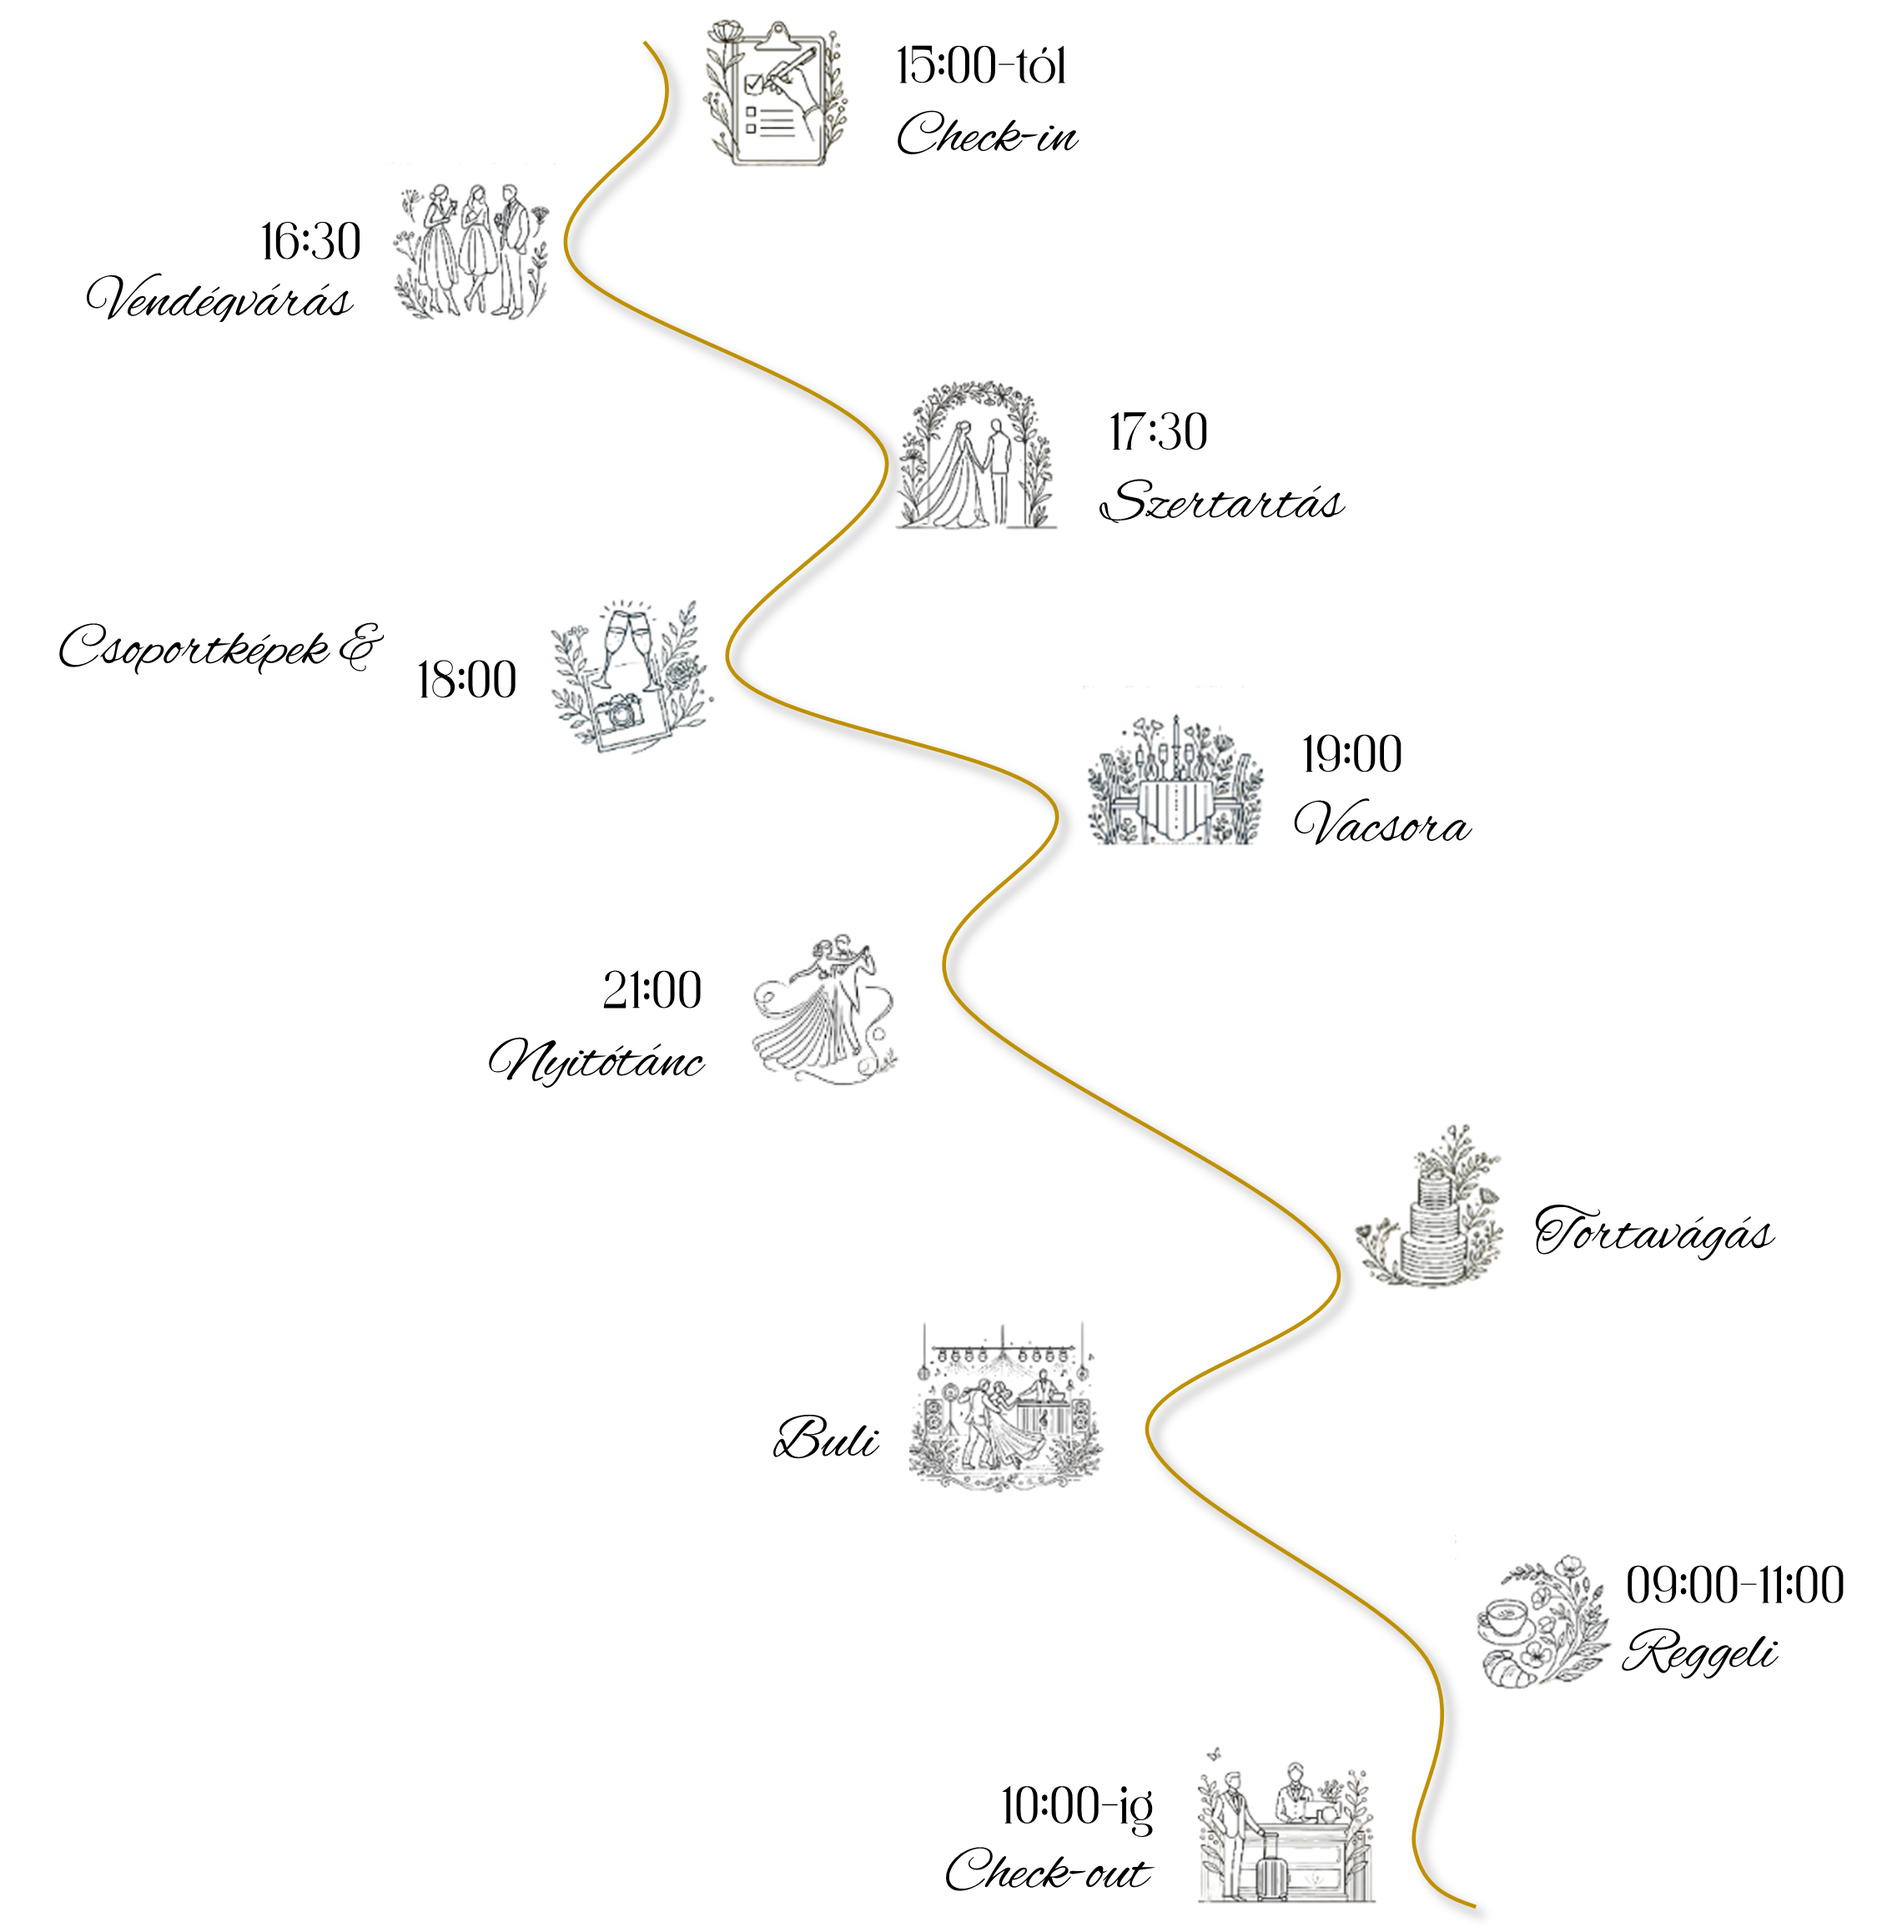
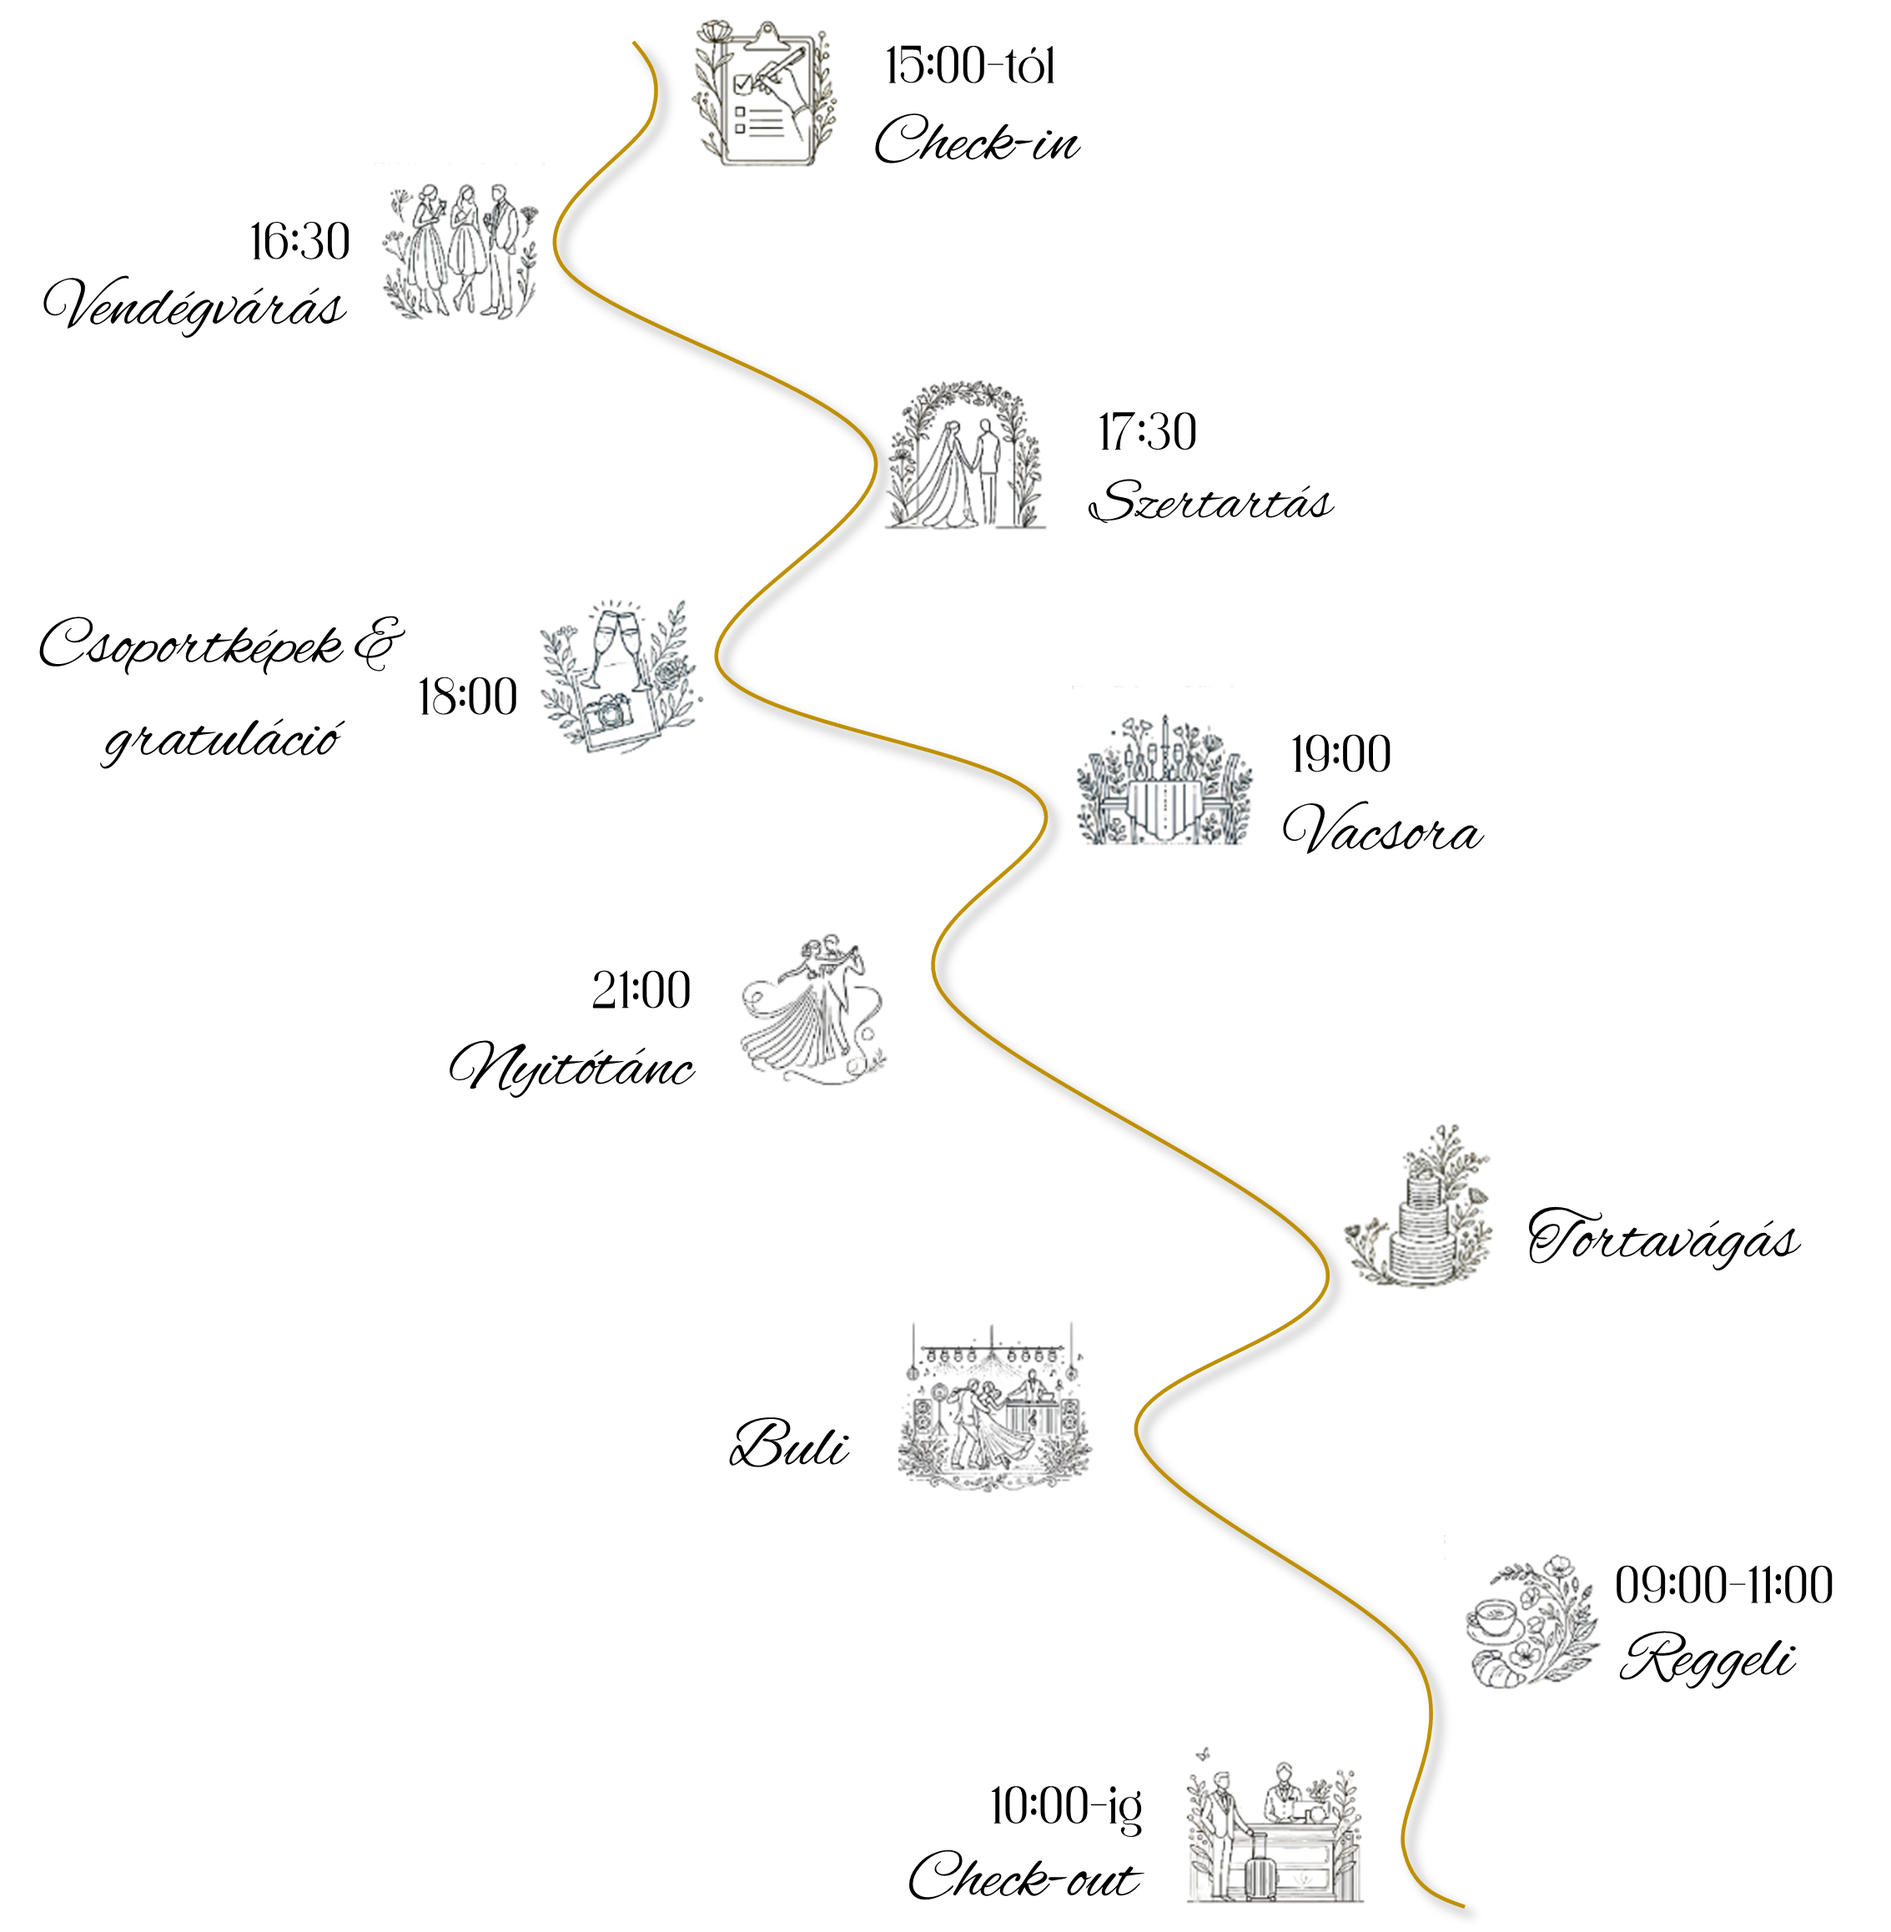
update auth folder structure

diff --git a/pages/main.html b/pages/main.html
@@ -9,7 +9,7 @@
 	<meta charset="utf-8">
 	<meta http-equiv="X-UA-Compatible" content="IE=edge">
 	<title>Fanni & Zoli</title>
-	<link rel="shortcut icon" type="image/x-icon" href="images/favicon.ico" />
+	<link rel="shortcut icon" type="image/x-icon" href="../images/favicon.ico" />
 	<meta name="viewport" content="width=device-width, initial-scale=1">
 	<meta name="description" content="Fanni & Zoli esküvőjének részletei" />
 	<meta name="keywords" content="" />
@@ -34,33 +34,33 @@
 	<link href="https://fonts.googleapis.com/css?family=Sacramento" rel="stylesheet">
 
 	<!-- Animate.css -->
-	<link rel="stylesheet" href="css/animate.css">
+	<link rel="stylesheet" href="../css/animate.css">
 	<!-- Icomoon Icon Fonts-->
-	<link rel="stylesheet" href="css/icomoon.css">
+	<link rel="stylesheet" href="../css/icomoon.css">
 	<!-- Bootstrap  -->
-	<link rel="stylesheet" href="css/bootstrap.css">
+	<link rel="stylesheet" href="../css/bootstrap.css">
 
 	<!-- Magnific Popup -->
-	<link rel="stylesheet" href="css/magnific-popup.css">
+	<link rel="stylesheet" href="../css/magnific-popup.css">
 
 	<!-- Owl Carousel  -->
-	<link rel="stylesheet" href="css/owl.carousel.min.css">
-	<link rel="stylesheet" href="css/owl.theme.default.min.css">
+	<link rel="stylesheet" href="../css/owl.carousel.min.css">
+	<link rel="stylesheet" href="../css/owl.theme.default.min.css">
 
 	<!-- Theme style  -->
-	<link rel="stylesheet" href="css/style.css">
+	<link rel="stylesheet" href="../css/style.css">
 
 	<!-- Modernizr JS -->
-	<script src="js/modernizr-2.6.2.min.js"></script>
+	<script src="../js/modernizr-2.6.2.min.js"></script>
 	<!-- FOR IE9 below -->
 	<!--[if lt IE 9]>
 	<script src="js/respond.min.js"></script>
 	<![endif]-->
 
-	<script src="js/translation.js"></script>
+	<script src="../js/translation.js"></script>
 
 
-	<script src="auth/auth.js"></script>
+	<script src="../auth/auth.js"></script>
 
 
 </head>
@@ -109,7 +109,7 @@
 			</div>
 		</nav>
 
-		<header id="fh5co-header" class="fh5co-cover" role="banner" style="background-image:url(images/img_bg_2.jpg);"
+		<header id="fh5co-header" class="fh5co-cover" role="banner" style="background-image:url(../images/img_bg_2.jpg);"
 			data-stellar-background-ratio="0.5">
 			<div class="overlay"></div>
 			<div class="container">
@@ -135,15 +135,15 @@
 				<h1 id="timeline-header-text" class="h1_section">Menetrend</h1>
 			</div>
 			<div class="timeline_div">
-				<img src="images/timeline_hu.png" alt="Timeline" class="responsive-img" id="timeline-img">
+				<img src="../images/timeline_hu.png" alt="Timeline" class="responsive-img" id="timeline-img">
 
 				<script>
 					function updateTimelineImage() {
 						let image = document.getElementById("timeline-img");
 						if (window.innerWidth <= 768) {
-							image.src = "images/timeline_hu_mobile.png";
+							image.src = "../images/timeline_hu_mobile.png";
 						} else {
-							image.src = "images/timeline_hu.png";
+							image.src = "../images/timeline_hu.png";
 						}
 					}
 				  
@@ -156,7 +156,7 @@
 			</div>
 		</section>
 		<div class="divider">
-			<img src="images/divider.png" class="divider-img">
+			<img src="../images/divider.png" class="divider-img">
 		</div>
 
 		<section class="s_location">
@@ -215,31 +215,31 @@
 	</div>
 
 	<!-- jQuery -->
-	<script src="js/jquery.min.js"></script>
+	<script src="../js/jquery.min.js"></script>
 	<!-- jQuery Easing -->
-	<script src="js/jquery.easing.1.3.js"></script>
+	<script src="../js/jquery.easing.1.3.js"></script>
 	<!-- Bootstrap -->
-	<script src="js/bootstrap.min.js"></script>
+	<script src="../js/bootstrap.min.js"></script>
 	<!-- Waypoints -->
-	<script src="js/jquery.waypoints.min.js"></script>
+	<script src="../js/jquery.waypoints.min.js"></script>
 	<!-- Carousel -->
-	<script src="js/owl.carousel.min.js"></script>
+	<script src="../js/owl.carousel.min.js"></script>
 	<!-- countTo -->
-	<script src="js/jquery.countTo.js"></script>
+	<script src="../js/jquery.countTo.js"></script>
 
 	<!-- Stellar -->
-	<script src="js/jquery.stellar.min.js"></script>
+	<script src="../js/jquery.stellar.min.js"></script>
 	<!-- Magnific Popup -->
-	<script src="js/jquery.magnific-popup.min.js"></script>
-	<script src="js/magnific-popup-options.js"></script>
+	<script src="../js/jquery.magnific-popup.min.js"></script>
+	<script src="../js/magnific-popup-options.js"></script>
 
 	<!-- // <script src="https://cdnjs.cloudflare.com/ajax/libs/prism/0.0.1/prism.min.js"></script> -->
-	<script src="js/simplyCountdown.js"></script>
+	<script src="../js/simplyCountdown.js"></script>
 	<!-- Main -->
-	<script src="js/main.js"></script>
+	<script src="../js/main.js"></script>
 
 	<!-- Link to the external JavaScript file -->
-	<script src="js/slideshow.js"></script>
+	<script src="../js/slideshow.js"></script>
 
 
 	<script>

diff --git a/auth/auth.js b/auth/auth.js
@@ -23,7 +23,7 @@ function redirectToLogin() {
   const currentPage = window.location.pathname.split("/").pop(); // Get current file name
 
   if (protectedPages.includes(currentPage)) {
-      window.location.href = "../index.html"; // Adjust path if necessary
+      window.location.href = "../index.html"; // Adjusted for "index.html" in the root directory
   }
 }
 
@@ -36,7 +36,7 @@ function validatePassword() {
   const errorMessage = document.getElementById("error-message");
 
   // Base64
-  const encodedCorrectPassword = "cmVhZHkyd2Vk"; 
+  const encodedCorrectPassword = "cmVhZHkyd2Vk"; // The encoded correct password
 
   // Encode user input to Base64 for comparison
   const encodedInput = btoa(input);
@@ -45,9 +45,8 @@ function validatePassword() {
       // Store session timestamp in localStorage (valid for 24 hours)
       localStorage.setItem("authTimestamp", Date.now());
 
-      // Redirect to the last visited page or main page
-      const lastPage = localStorage.getItem("lastPage") || "main.html";
-      window.location.href = lastPage;
+      // Redirect to the main page (or the last visited page, if implemented)
+      window.location.href = "pages/main.html"; // Adjusted for "main.html" inside "pages" folder
   } else {
       errorMessage.textContent = "Hibás jelszó / Incorrect password";
   }
@@ -57,7 +56,7 @@ function validatePassword() {
 function logout() {
   localStorage.removeItem("authTimestamp");
   localStorage.removeItem("lastPage"); // Clear last visited page
-  window.location.href = "../index.html"; // Adjust path if necessary
+  window.location.href = "../index.html"; // Adjusted for "index.html" in the root directory
 }
 
 // Store last visited page before redirecting

diff --git a/css/style.css b/css/style.css
@@ -2707,7 +2707,7 @@ html {
   position: relative;
   justify-content: center;
   display: flex;
-  padding: 30px 0 10px 0;
+  padding: 50px 0 10px 0;
 }
 
 .divider-img {
@@ -2843,7 +2843,7 @@ html {
 }
 
 .responsive-img {
-  max-width: 95%; /* Adjusts size based on screen width */
+  max-width: 80%; /* Adjusts size based on screen width */
   height: auto; /* Maintains aspect ratio */
   display: block; /* Ensures proper alignment */
   align-self: center;
@@ -2857,6 +2857,7 @@ html {
 /* Change image on small screens (e.g., mobile devices) */
 @media (max-width: 768px) {
   #timeline-img {
-      content: url('images/timeline_hu_mobile.png'); /* Swap to mobile image */
+      content: url('../images/timeline_hu_mobile.png'); /* Swap to mobile image */
+      max-width: 100%;
   }
 }
